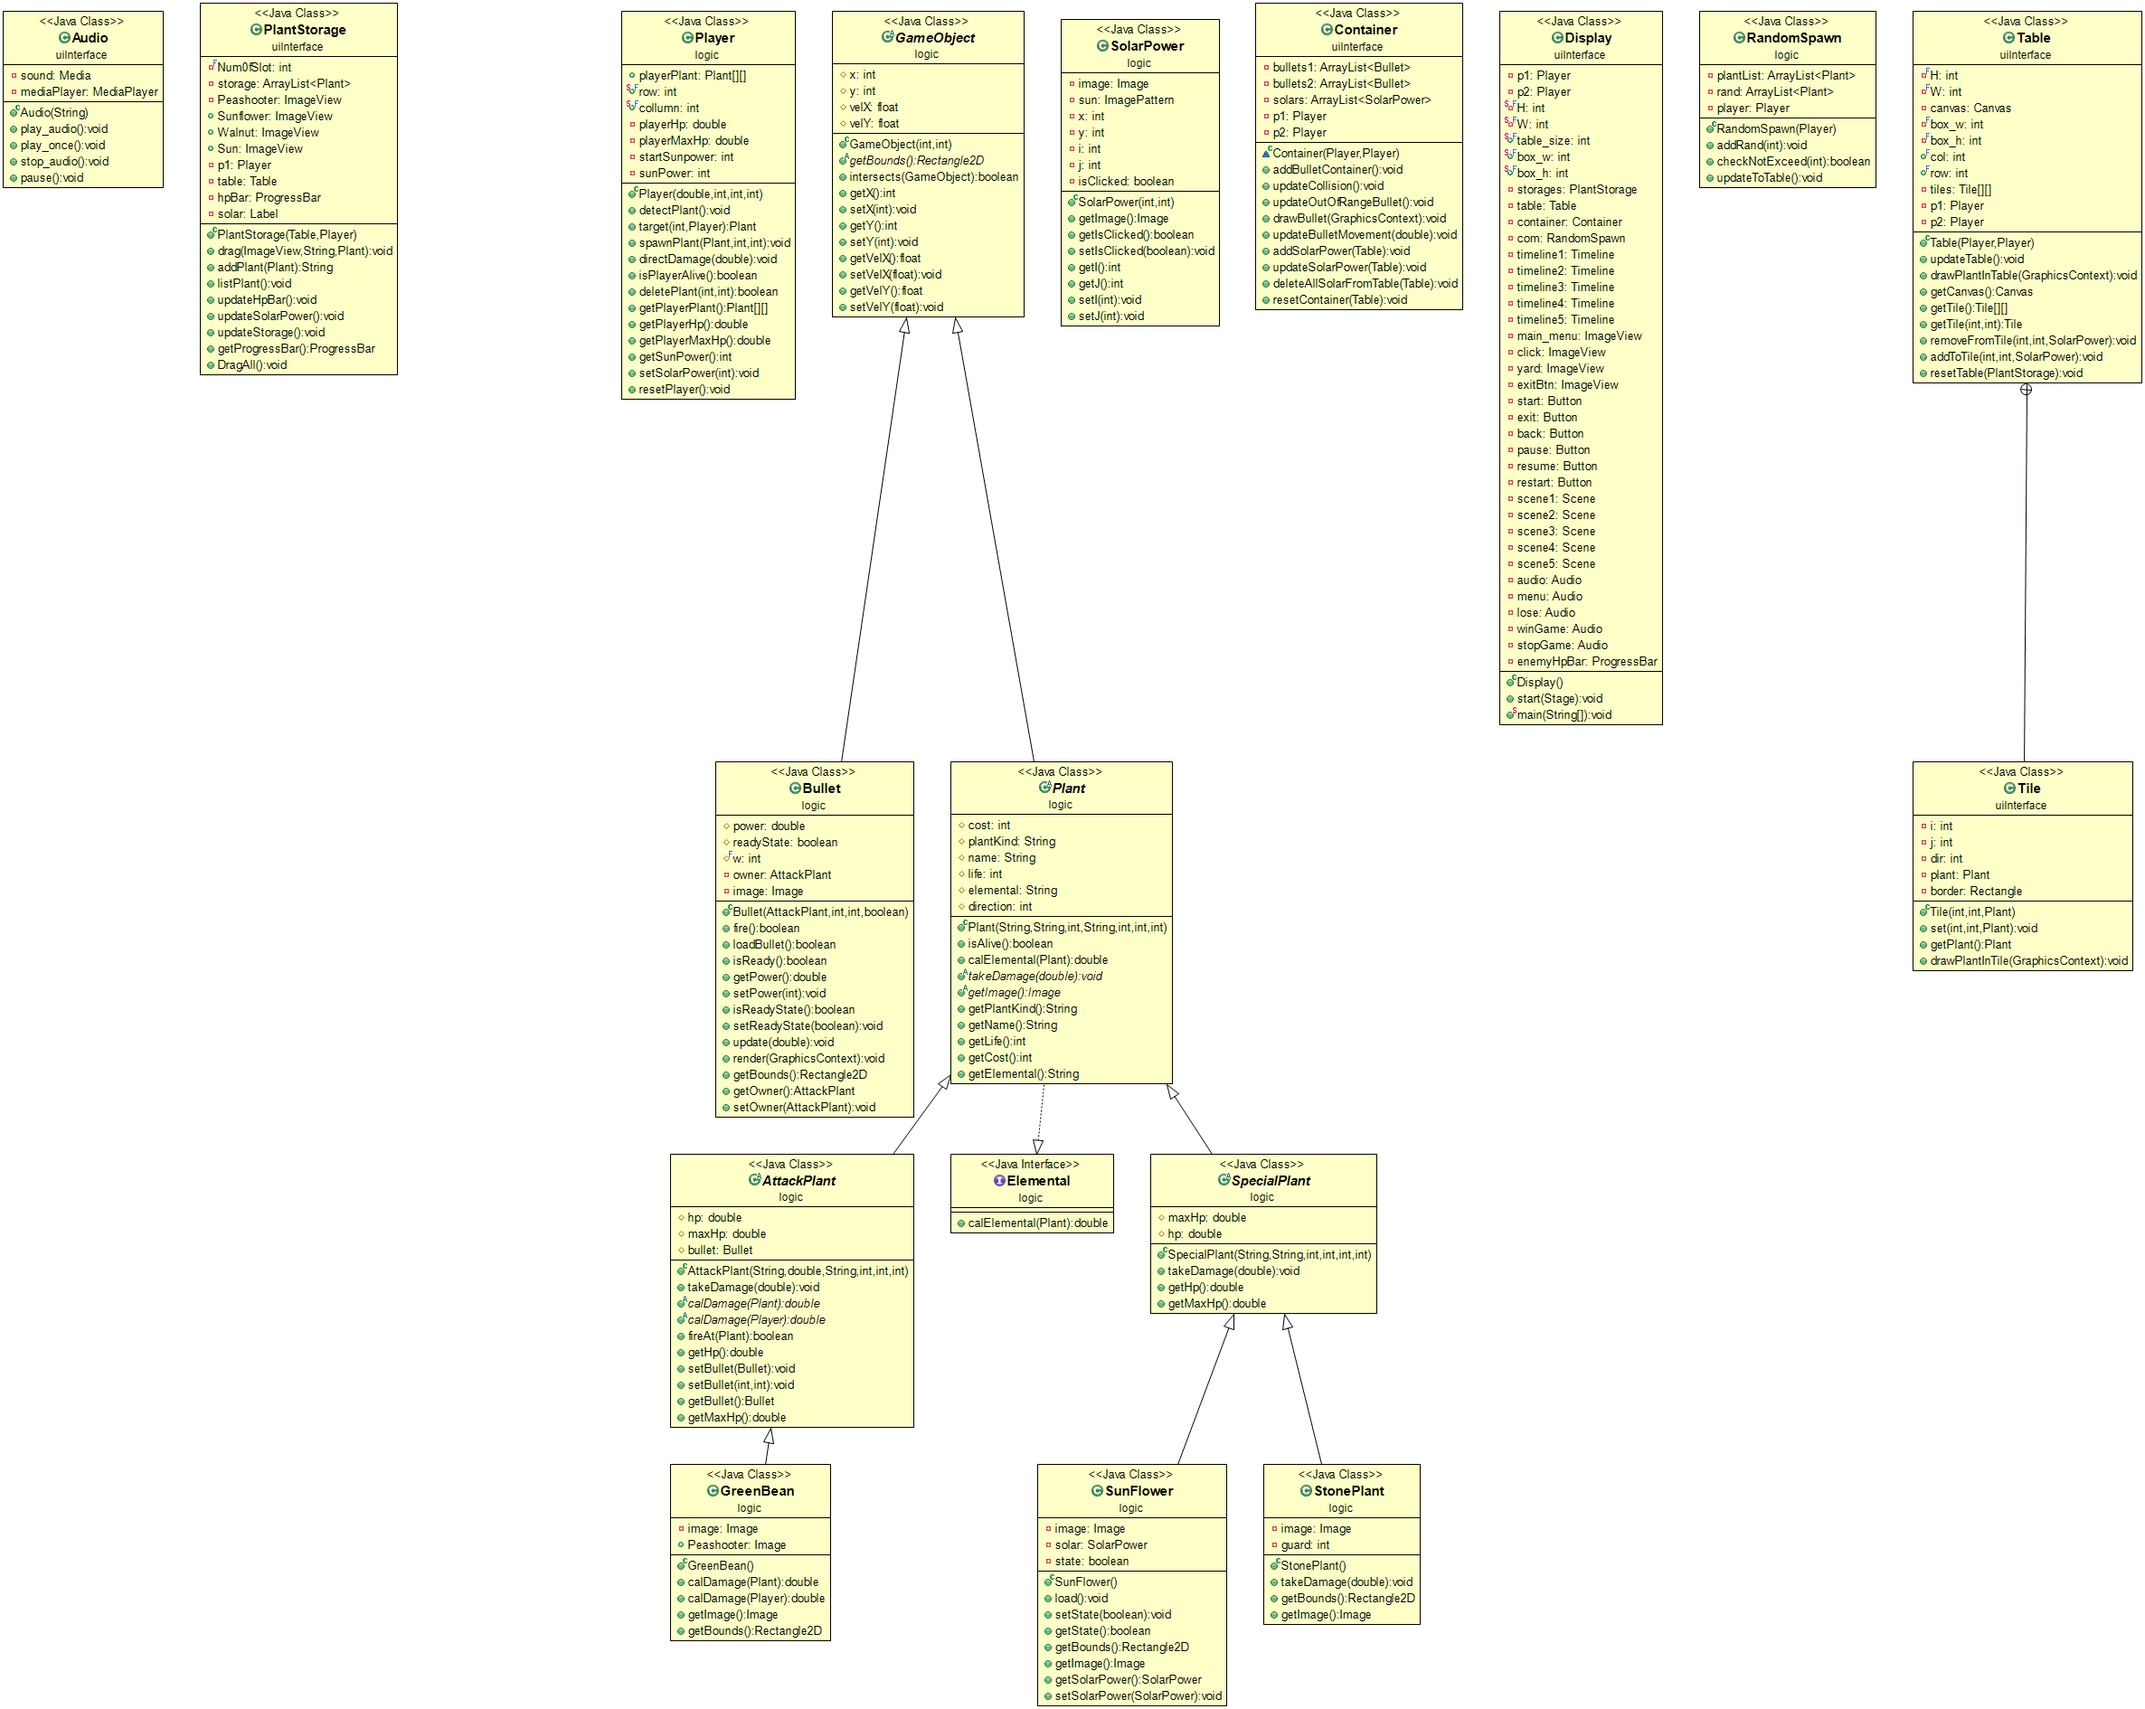
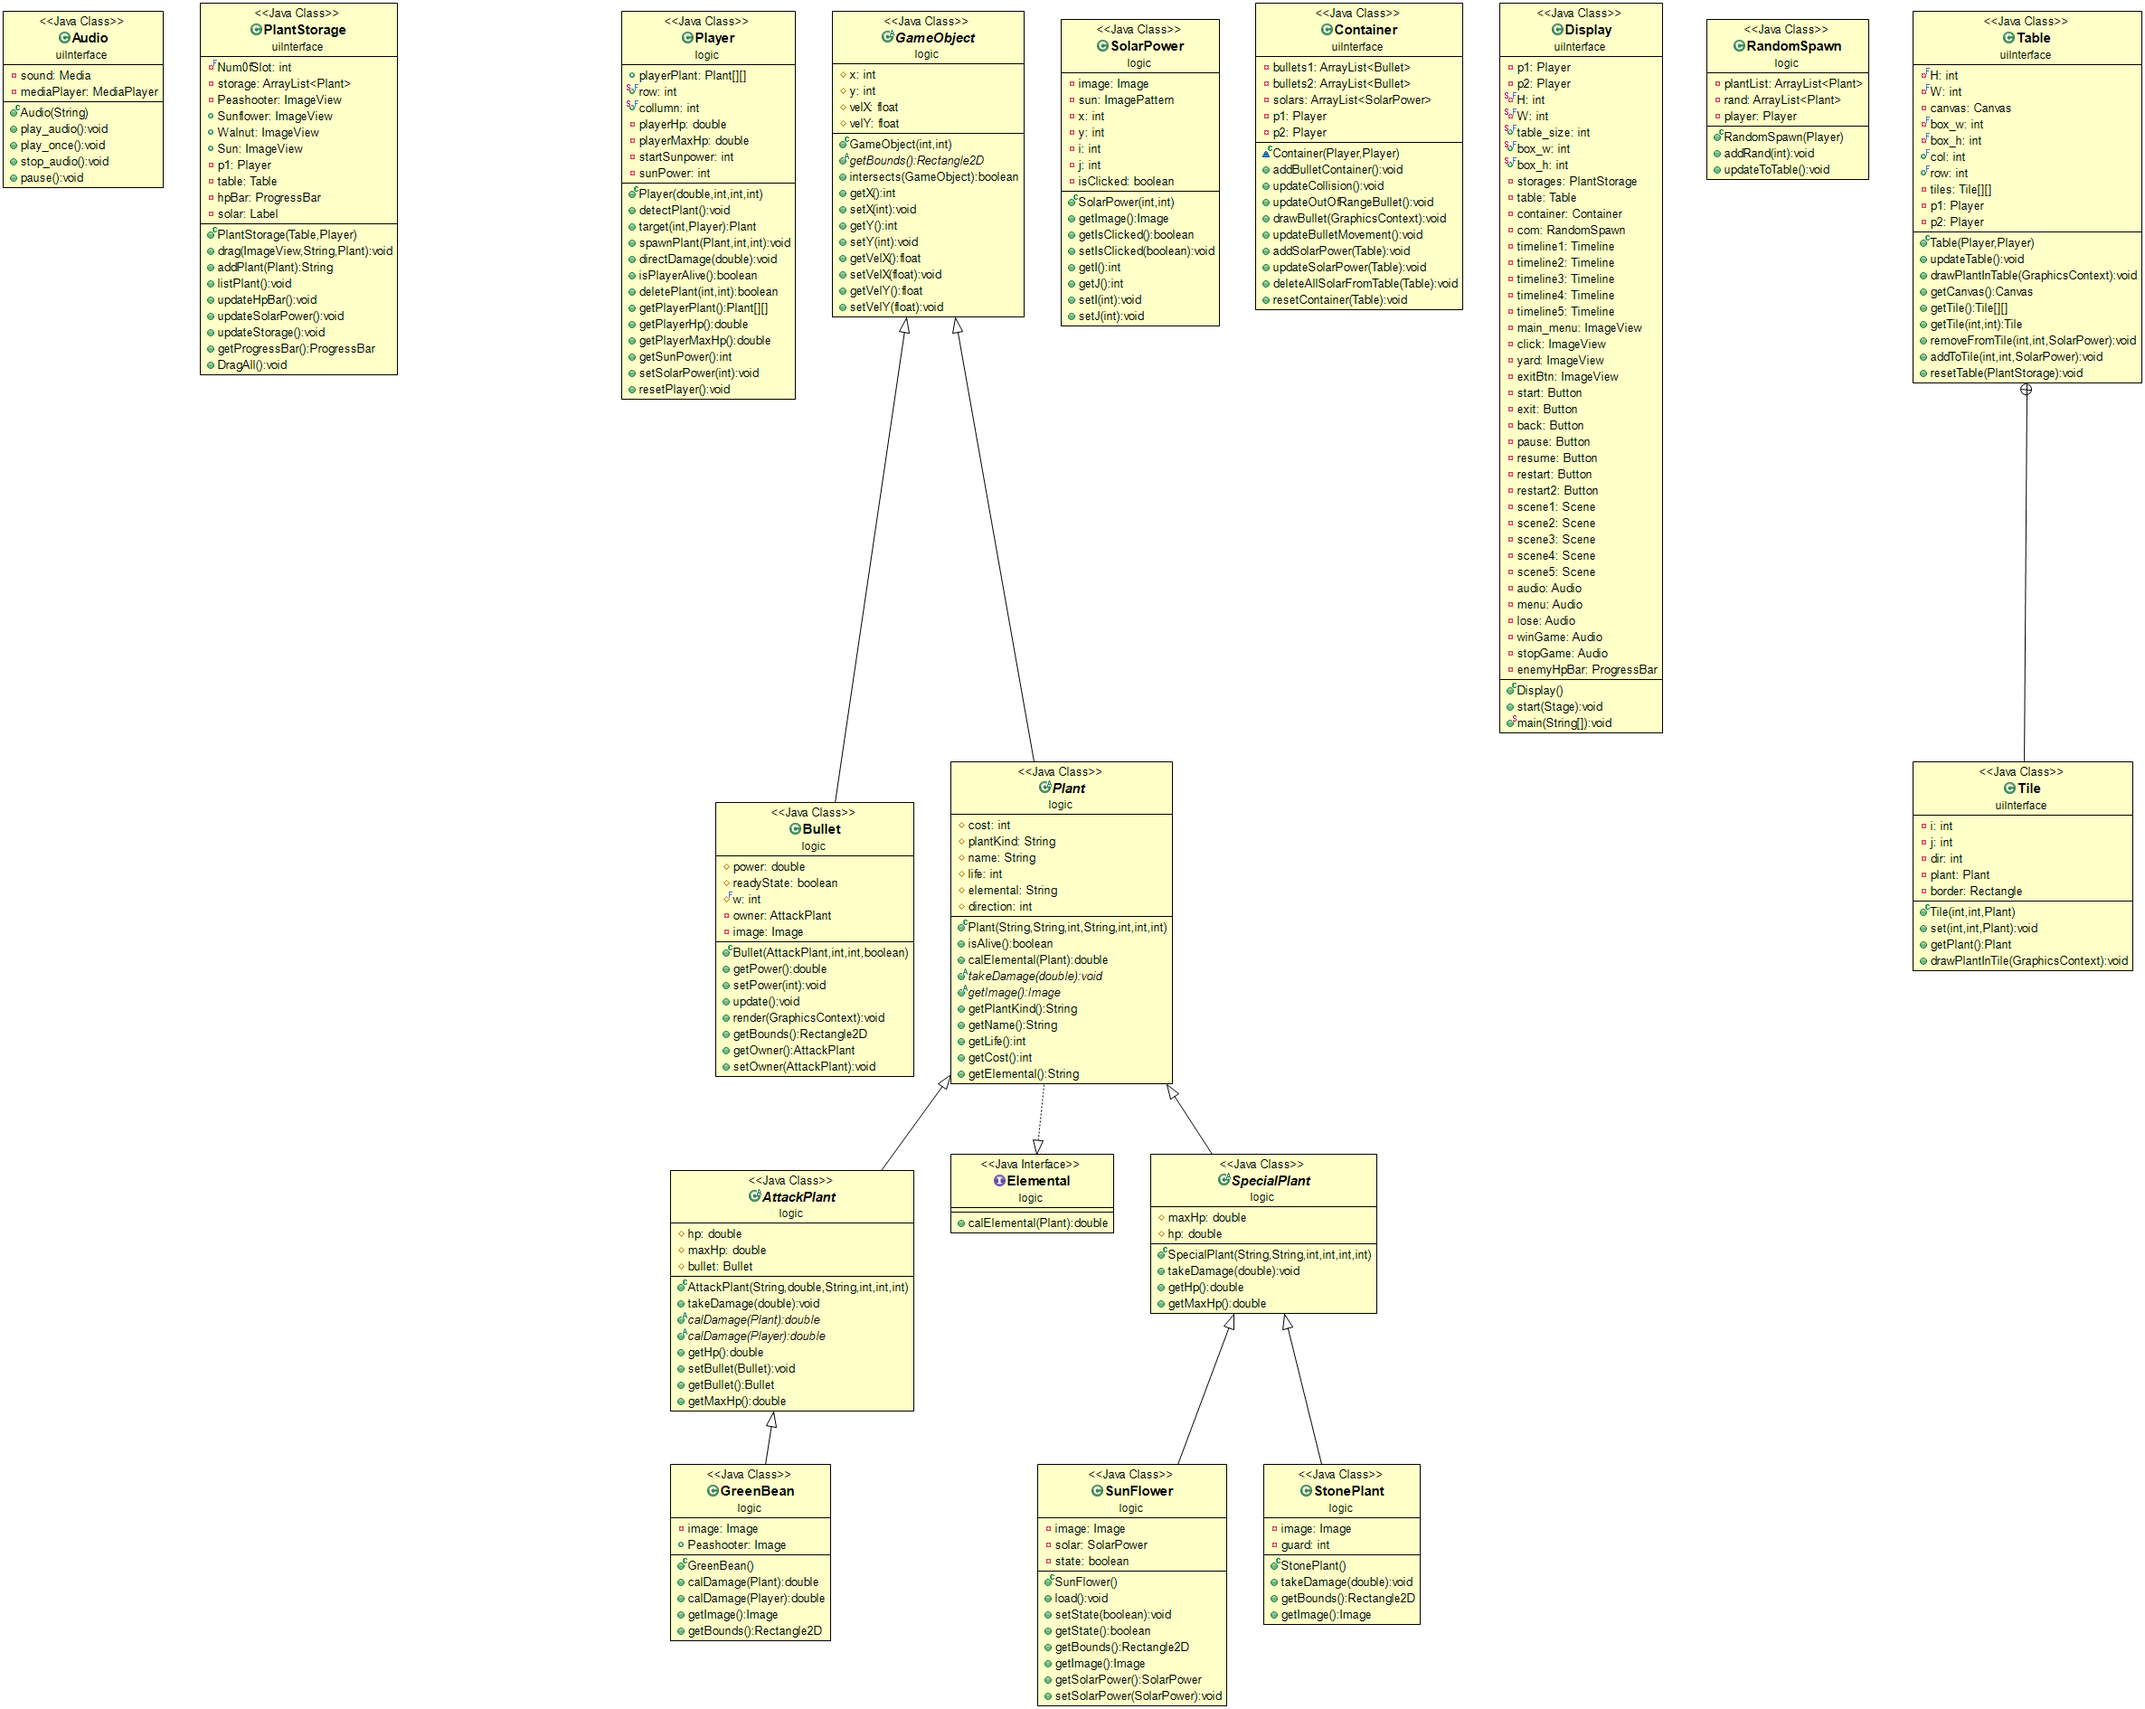
edited and deleted some method

Changed region(s): [[0.6863, 0.0, 0.8735, 0.437], [0.312, 0.437, 0.4368, 0.8429]]

diff --git a/src/logic/RandomSpawn.java b/src/logic/RandomSpawn.java
@@ -7,56 +7,54 @@ public class RandomSpawn {
 	private ArrayList<Plant> plantList;
 	private ArrayList<Plant> rand;
 	private Player player;
-	public RandomSpawn(Player com){
+
+	public RandomSpawn(Player com) {
 		this.player = com;
 		this.rand = new ArrayList<Plant>();
 		this.plantList = new ArrayList<Plant>();
 		plantList.add(new StonePlant());
 		plantList.add(new GreenBean());
-		//plantList.add(new SunFlower());
-		
+		// plantList.add(new SunFlower());
+
 	}
+
 	public void addRand(int num) {
-		for(int i = 0; i < num; i++) {
+		for (int i = 0; i < num; i++) {
 			Random rnd = new Random();
 			int randNum;
-			if(plantList.size() <=1) {
+			if (plantList.size() <= 1) {
 				randNum = 0;
-			}
-			else {
+			} else {
 				randNum = rnd.nextInt(plantList.size());
-				//System.out.println(randNum);
+				// System.out.println(randNum);
 			}
 			rand.add(plantList.get((randNum)));
 		}
 	}
-	public boolean checkNotExceed(int num) {
-		return true;
-	}
+
 	public void updateToTable() {
 		System.out.println();
-		for(int i = 0; i < rand.size();i++) {
+		for (int i = 0; i < rand.size(); i++) {
 			Random rnd = new Random();
 			int randi = rnd.nextInt(Player.row);
 			int randj = rnd.nextInt(Player.collumn);
 			System.out.println(player.playerPlant[randi][randj]);
-			if(rand.get(i) instanceof GreenBean) {
-				player.spawnPlant( new GreenBean(), randi, randj);
+			if (rand.get(i) instanceof GreenBean) {
+				player.spawnPlant(new GreenBean(), randi, randj);
 				rand.remove(i);
 				continue;
 			}
-			if(rand.get(i) instanceof SunFlower) {
-				player.spawnPlant( new SunFlower(), randi, randj);
+			if (rand.get(i) instanceof SunFlower) {
+				player.spawnPlant(new SunFlower(), randi, randj);
 				rand.remove(i);
 				continue;
 			}
-			if(rand.get(i) instanceof StonePlant) {
-				player.spawnPlant( new StonePlant(), randi, randj);
+			if (rand.get(i) instanceof StonePlant) {
+				player.spawnPlant(new StonePlant(), randi, randj);
 				rand.remove(i);
 				continue;
 			}
-			
-			
+
 		}
 	}
 }

diff --git a/src/logic/Bullet.java b/src/logic/Bullet.java
@@ -22,28 +22,7 @@ public class Bullet extends GameObject {
 
 	}
 
-	public boolean fire() {
-		if (this.readyState) {
-			this.readyState = false;
-			return true;
-		} else {
-			return false;
-		}
-	}
-
-	public boolean loadBullet() {
-		if (!this.readyState) {
-			this.readyState = true;
-			return true;
-		} else {
-			return false;
-		}
-	}
-
-	public boolean isReady() {
-		return this.readyState;
-	}
-
+	
 	public double getPower() {
 		return power;
 	}
@@ -52,18 +31,12 @@ public class Bullet extends GameObject {
 		this.power = power;
 	}
 
-	public boolean isReadyState() {
-		return readyState;
-	}
+	
 
-	public void setReadyState(boolean readyState) {
-		this.readyState = readyState;
-	}
-
-	public void update(double time) {
+	public void update() {
 		// x,y position
 
-		this.x += velX * time;
+		this.x += velX ;
 	}
 
 	public void render(GraphicsContext gc) {

diff --git a/src/logic/AttackPlant.java b/src/logic/AttackPlant.java
@@ -35,26 +35,12 @@ public abstract class AttackPlant extends Plant {
 
 	public abstract double calDamage(Player other);
 
-	public boolean fireAt(Plant other) {
-		if (this.bullet.isReady()) {
-			other.takeDamage(calDamage(other));
-			return true;
-		} else {
-			return false;
-		}
-	}
-
 	public double getHp() {
 		return hp;
 	}
 
 	public void setBullet(Bullet bullet) {
 		this.bullet = bullet;
-	}
-
-	public void setBullet(int x, int y) {
-		this.bullet.setX(x);
-		this.bullet.setY(y);
 	}
 
 	public Bullet getBullet() {

diff --git a/src/uiInterface/Container.java b/src/uiInterface/Container.java
@@ -128,15 +128,15 @@ public class Container {
 		}
 	}
 
-	public void updateBulletMovement(double time) {
+	public void updateBulletMovement() {
 		for (int i = 0; i < bullets1.size(); i++) {
-			bullets1.get(i).update(time);
+			bullets1.get(i).update();
 
 		}
 		for (int i = 0; i < bullets2.size(); i++) {
 			if (bullets2.get(i).getVelX() != -1)
 				bullets2.get(i).setVelX(-1);
-			bullets2.get(i).update(time);
+			bullets2.get(i).update();
 			;
 
 		}

diff --git a/src/uiInterface/Display.java b/src/uiInterface/Display.java
@@ -314,7 +314,7 @@ public class Display extends Application {
 				table.updateTable();
 				container.updateSolarPower(table);
 				container.updateCollision();
-				container.updateBulletMovement(1);
+				container.updateBulletMovement();
 				p1.detectPlant();
 				p2.detectPlant();
 				container.updateOutOfRangeBullet();

diff --git a/src/logic/Exception.java b/src/logic/Exception.java
@@ -1,0 +1,5 @@
+package logic;
+
+public class Exception extends Throwable {
+	public String exStrin
+}
